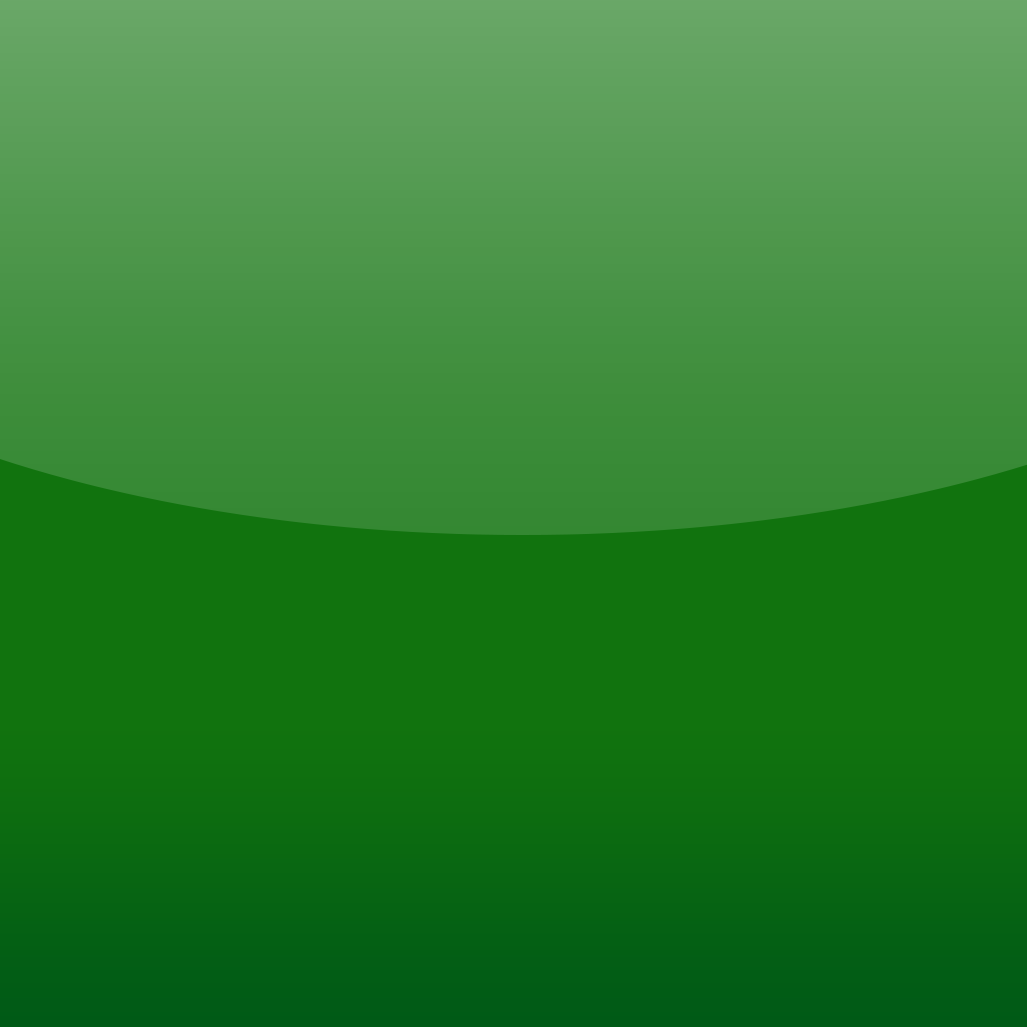
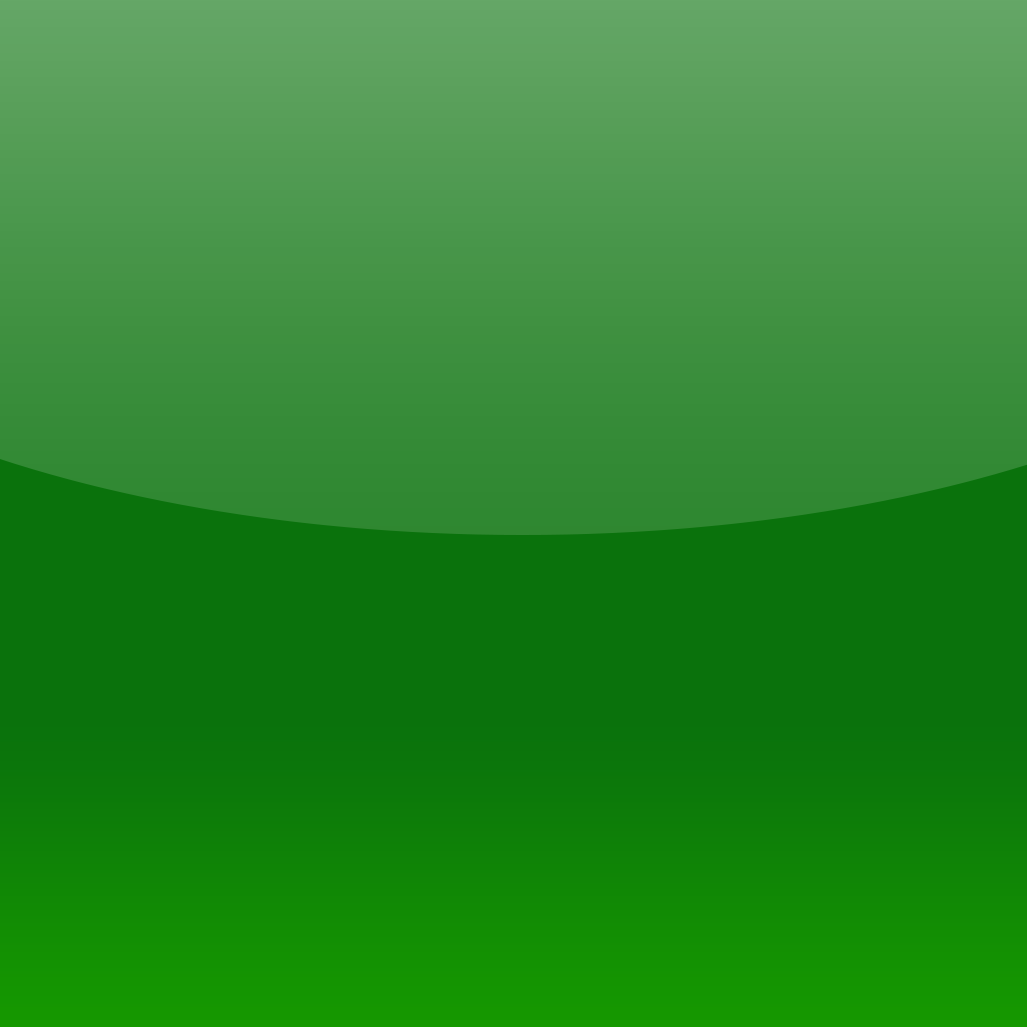
Updated item backgrounds

Changed region(s): [[0.0, 0.8101, 1.0, 1.0]]

diff --git a/assets/stylesheets/tswlairmgr/core/components/item/item.css b/assets/stylesheets/tswlairmgr/core/components/item/item.css
@@ -47,7 +47,7 @@
 /* -------------------- */
 
 .item.lairfragment {
-	background: #0b404e url(../../../../../images/item/reusable_background.png);
+	background: #0b404e url(../../../../../images/item/pattern_background.png);
 	background-size: 100%;
 }
 
@@ -58,7 +58,7 @@
 
 .item.regionalfragment {
 	background-color: #0b404e;
-	background-image: url(../../../../../images/item/reusable_background.png);
+	background-image: url(../../../../../images/item/pattern_background.png);
 }
 
 .item.regionalboss {
